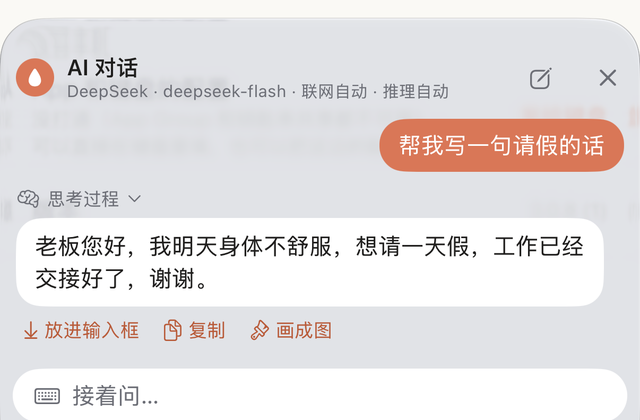
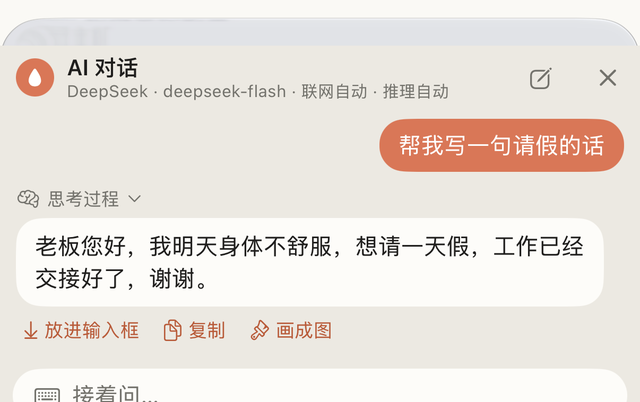
docs: 记下 3.0.9 的改动，README 换上暖色的新截图

diff --git a/docs/16-交接文档.md b/docs/16-交接文档.md
@@ -76,6 +76,20 @@
 - 新增 Claude 橙主题（暖灰加陶土色）并设为默认；换了 App 图标。
 - 麦克风：真机上启动录音被系统拒绝（kAUStartIO，错误码 2003329396）。现在换几种会话配置逐个试；都不行就提示去 App 的「说话转文字」，说完自动复制。
 
+## 3.0.9 改了什么（第七轮反馈：设置页卡、App 和键盘不同步、纠错、颜色）
+
+用户反馈：键盘设置页卡顿甚至卡死；键盘和 App 还是不能交流，改动不生效；希望纠错更强（打 nihaohaoma 能纠成你还好吗）；3.0.8 的键盘颜色不好看。
+
+- **设置页卡顿（根因）**：每次重画都去钥匙串查每家服务有没有填 Key（首页那一行查一次，服务列表每家查一次），十来家服务就是二三十次 `SecItemCopyMatching`，全在主线程上。`KeychainStore` 现在把读过的结果缓存在内存里，写和删时更新缓存，键盘弹出、App 回到前台时清掉重读。
+- **App 和键盘不同步（根因）**：以前两边各自判断走哪条路：有 App Group 就只写 App Group，没有就只写钥匙串（`SharedStore.setData` 和 `SharedBlob`）。只要两边判断得不一样（比如签名工具只给 App 开了 App Group），一边写的地方另一边根本不读。现在（`Storage/SharedSync.swift`）：
+  - 写：同一份数据同时写进本地（有 App Group 时就是 App Group）、钥匙串访问组、系统通知状态值，每份带写的时间（毫秒）。
+  - 读：每条路上各拿一份，用时间最新的；时间一样（旧版写的没带时间）时，有 App Group 信 App Group，否则信钥匙串，和以前一样。
+  - 系统通知这条路不需要任何权限，App 和键盘一定都能读写，但别的 App 理论上也能读，所以只放键盘偏好、AI 对话偏好、服务列表（服务里有自定义请求头时不放），压缩后不超过 6000 字节。重启手机后清空，打开一次 App 又会写上。
+  - API Key：App Group 打通时也存一份在 App Group 里（`moyu.apikey.<id>`），钥匙串共享没打通也能过去。两条都不通时 Key 只能在键盘里再填一次。
+  - `SyncStatus`：App 和键盘各自把「App Group 能不能用、钥匙串能不能用、版本」写进系统通知，App 首页和键盘设置的「App 和键盘」一段同时显示两边的情况和最后走哪条路。**真机上还不同步时，先截这一段。**
+- **纠错**：纠成三个字以上的现成短语时，每多一个字少扣 1 分（`longPhraseDiscount`）。`nihaohaoma` 本身能打成「你好好嘛」（−2.28），纠成「你还好吗」以前是 −3.51 出不来，现在 −1.51，排第二，标「纠错」。排第一的门槛从 2 提到 2.5。`tools/dict/typo_eval.py`：182 句打错一处的 102 句纠对排第一、16 句排第二；225 条打对的里 5 条出了纠错候选、1 条排第一。
+- **颜色**：3.0.7、3.0.8 默认「背景跟随系统」，3.0.8 又把功能键改成系统那种中性灰，Claude 橙的暖色没了，用户说不好看。默认改回主题自己的底色；「背景跟随系统」留着，默认关。存储名字换成 `systemBackground309`，以前存下来的「开」不再生效。
+
 ## 3.0.8 改了什么（外观和打字逻辑整体过一遍）
 
 用户说「把输入法全部优化一下，包括键盘美观和交互逻辑」。把键区绘制、触摸、顶栏和 `KeyboardSession` 的按键处理从头读了一遍，改了下面这些。浅色、深色都在模拟器里截图看过。
